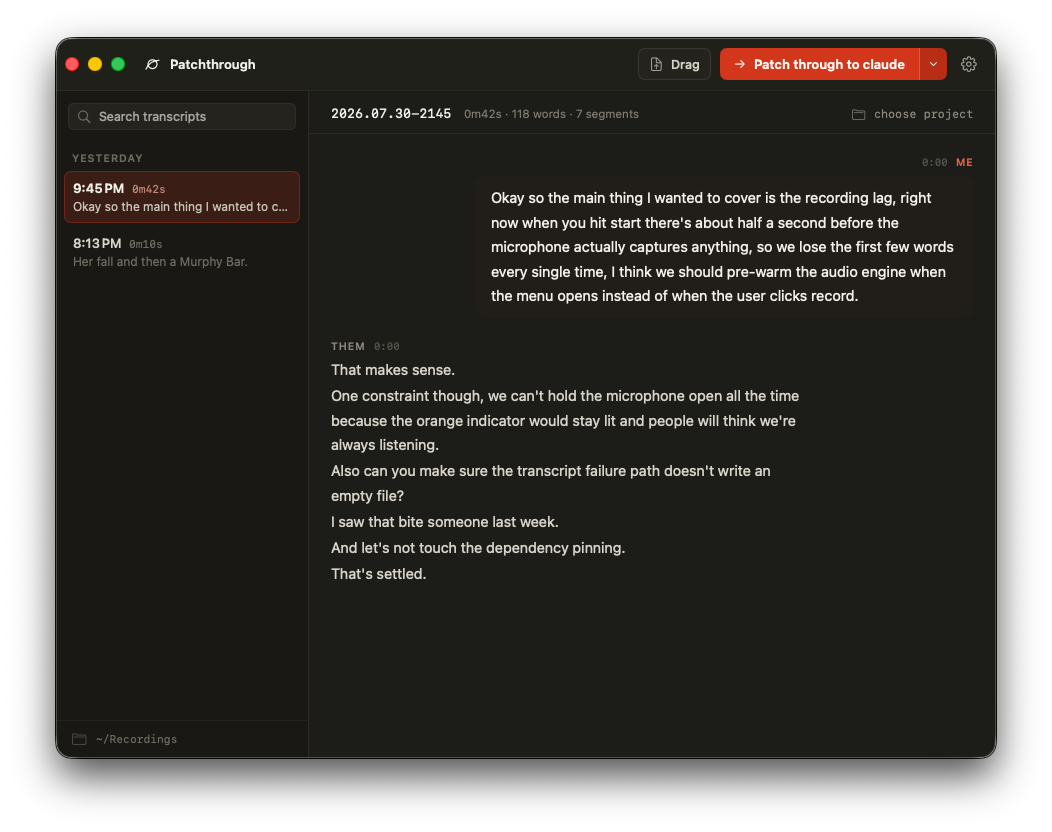
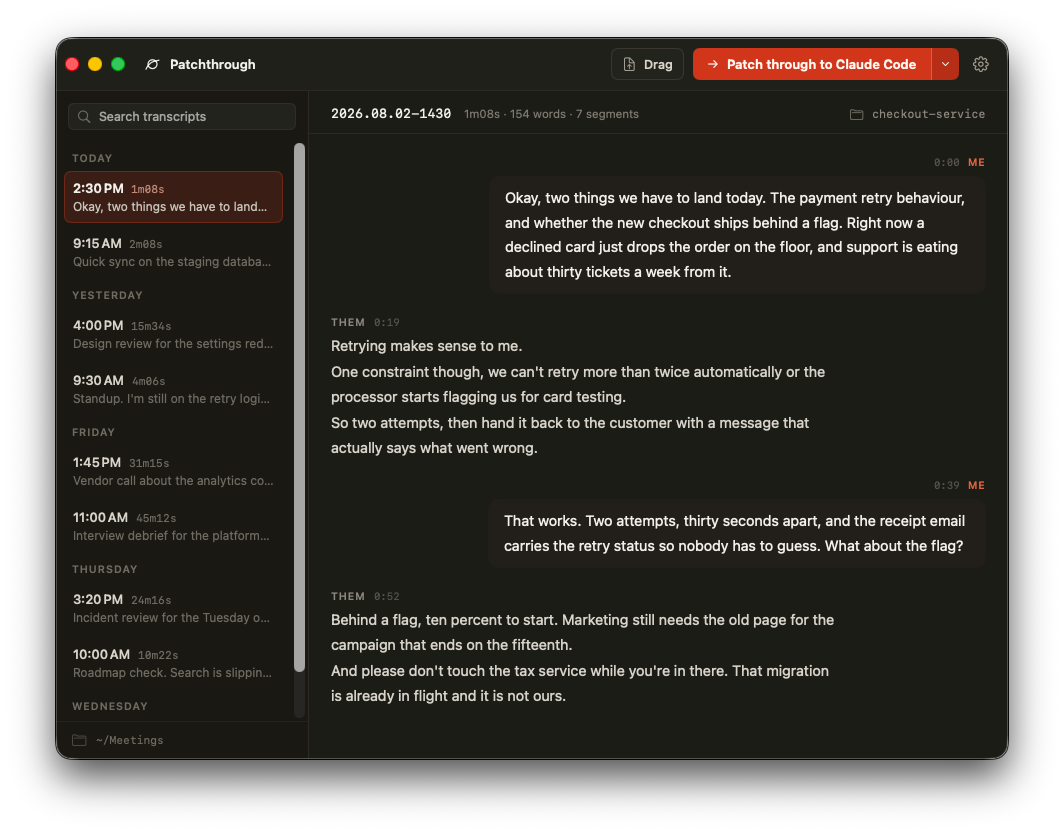
Replace the window screenshot with a clearer meeting
The old screenshot showed a meeting about Patchthrough itself, and the second
row in the list read like a failed transcription. It also predated the
destination rename, so the button still said "Patch through to claude".

The new screenshot shows a meeting that a visitor recognizes: it carries two
decisions, one constraint, and one item that is out of scope. That content is
what the handoff prompt asks an agent to extract. The list holds nine sessions
instead of two, and the transcript fills the pane.

The image comes from the app at the mock size of 952x721. Demo session files
supplied the content.

diff --git a/index.html b/index.html
@@ -395,7 +395,7 @@
 <div class="shot">
   <div class="wrap">
     <figure>
-      <img src="assets/window.png" alt="The Patchthrough window: a session list on the left, a transcript on the right with every line labelled by speaker, and a red Patch through to claude button in the titlebar." width="1052" height="832">
+      <img src="assets/window.png" alt="The Patchthrough window: a list of recorded meetings on the left, a transcript on the right with every line labelled by speaker, and a red Patch through to Claude Code button in the titlebar." width="1064" height="833">
       <figcaption>Each session shows who said what. Your microphone is "me" and the audio the Mac played is "them", so the two tracks give the speaker labels directly. You do not need a model that identifies speakers.</figcaption>
     </figure>
   </div>
